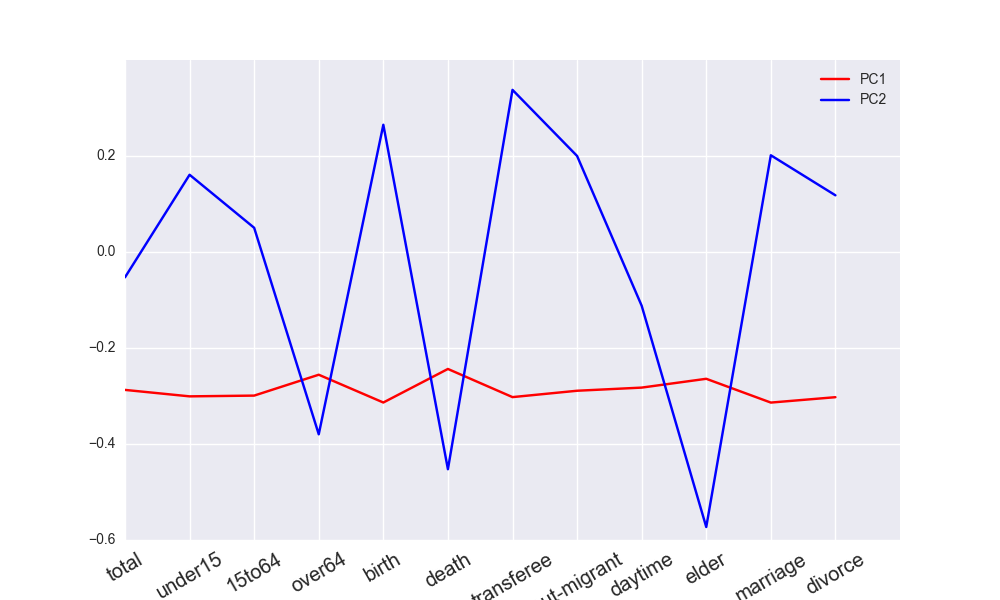
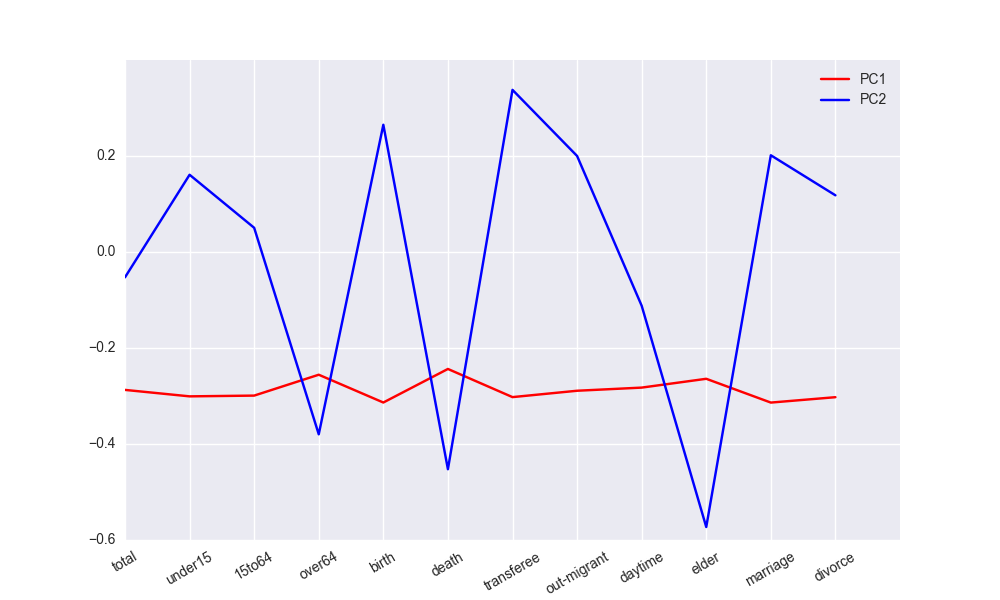
fix pca_components

diff --git a/factor.py b/factor.py
@@ -63,7 +63,7 @@ def pca_components(is_log=True, is_save=False):
     ax.plot(components[1], c='b', label='PC2')
     from util import columns
     ticks = ax.set_xticks(range(0, 12))
-    labels = ax.set_xticklabels(columns, rotation=30, fontsize='large')
+    labels = ax.set_xticklabels(columns, rotation=30, fontsize='small')
     ax.legend()
     if is_save is True:
         plt.savefig('data/picture/factor_components.png')
